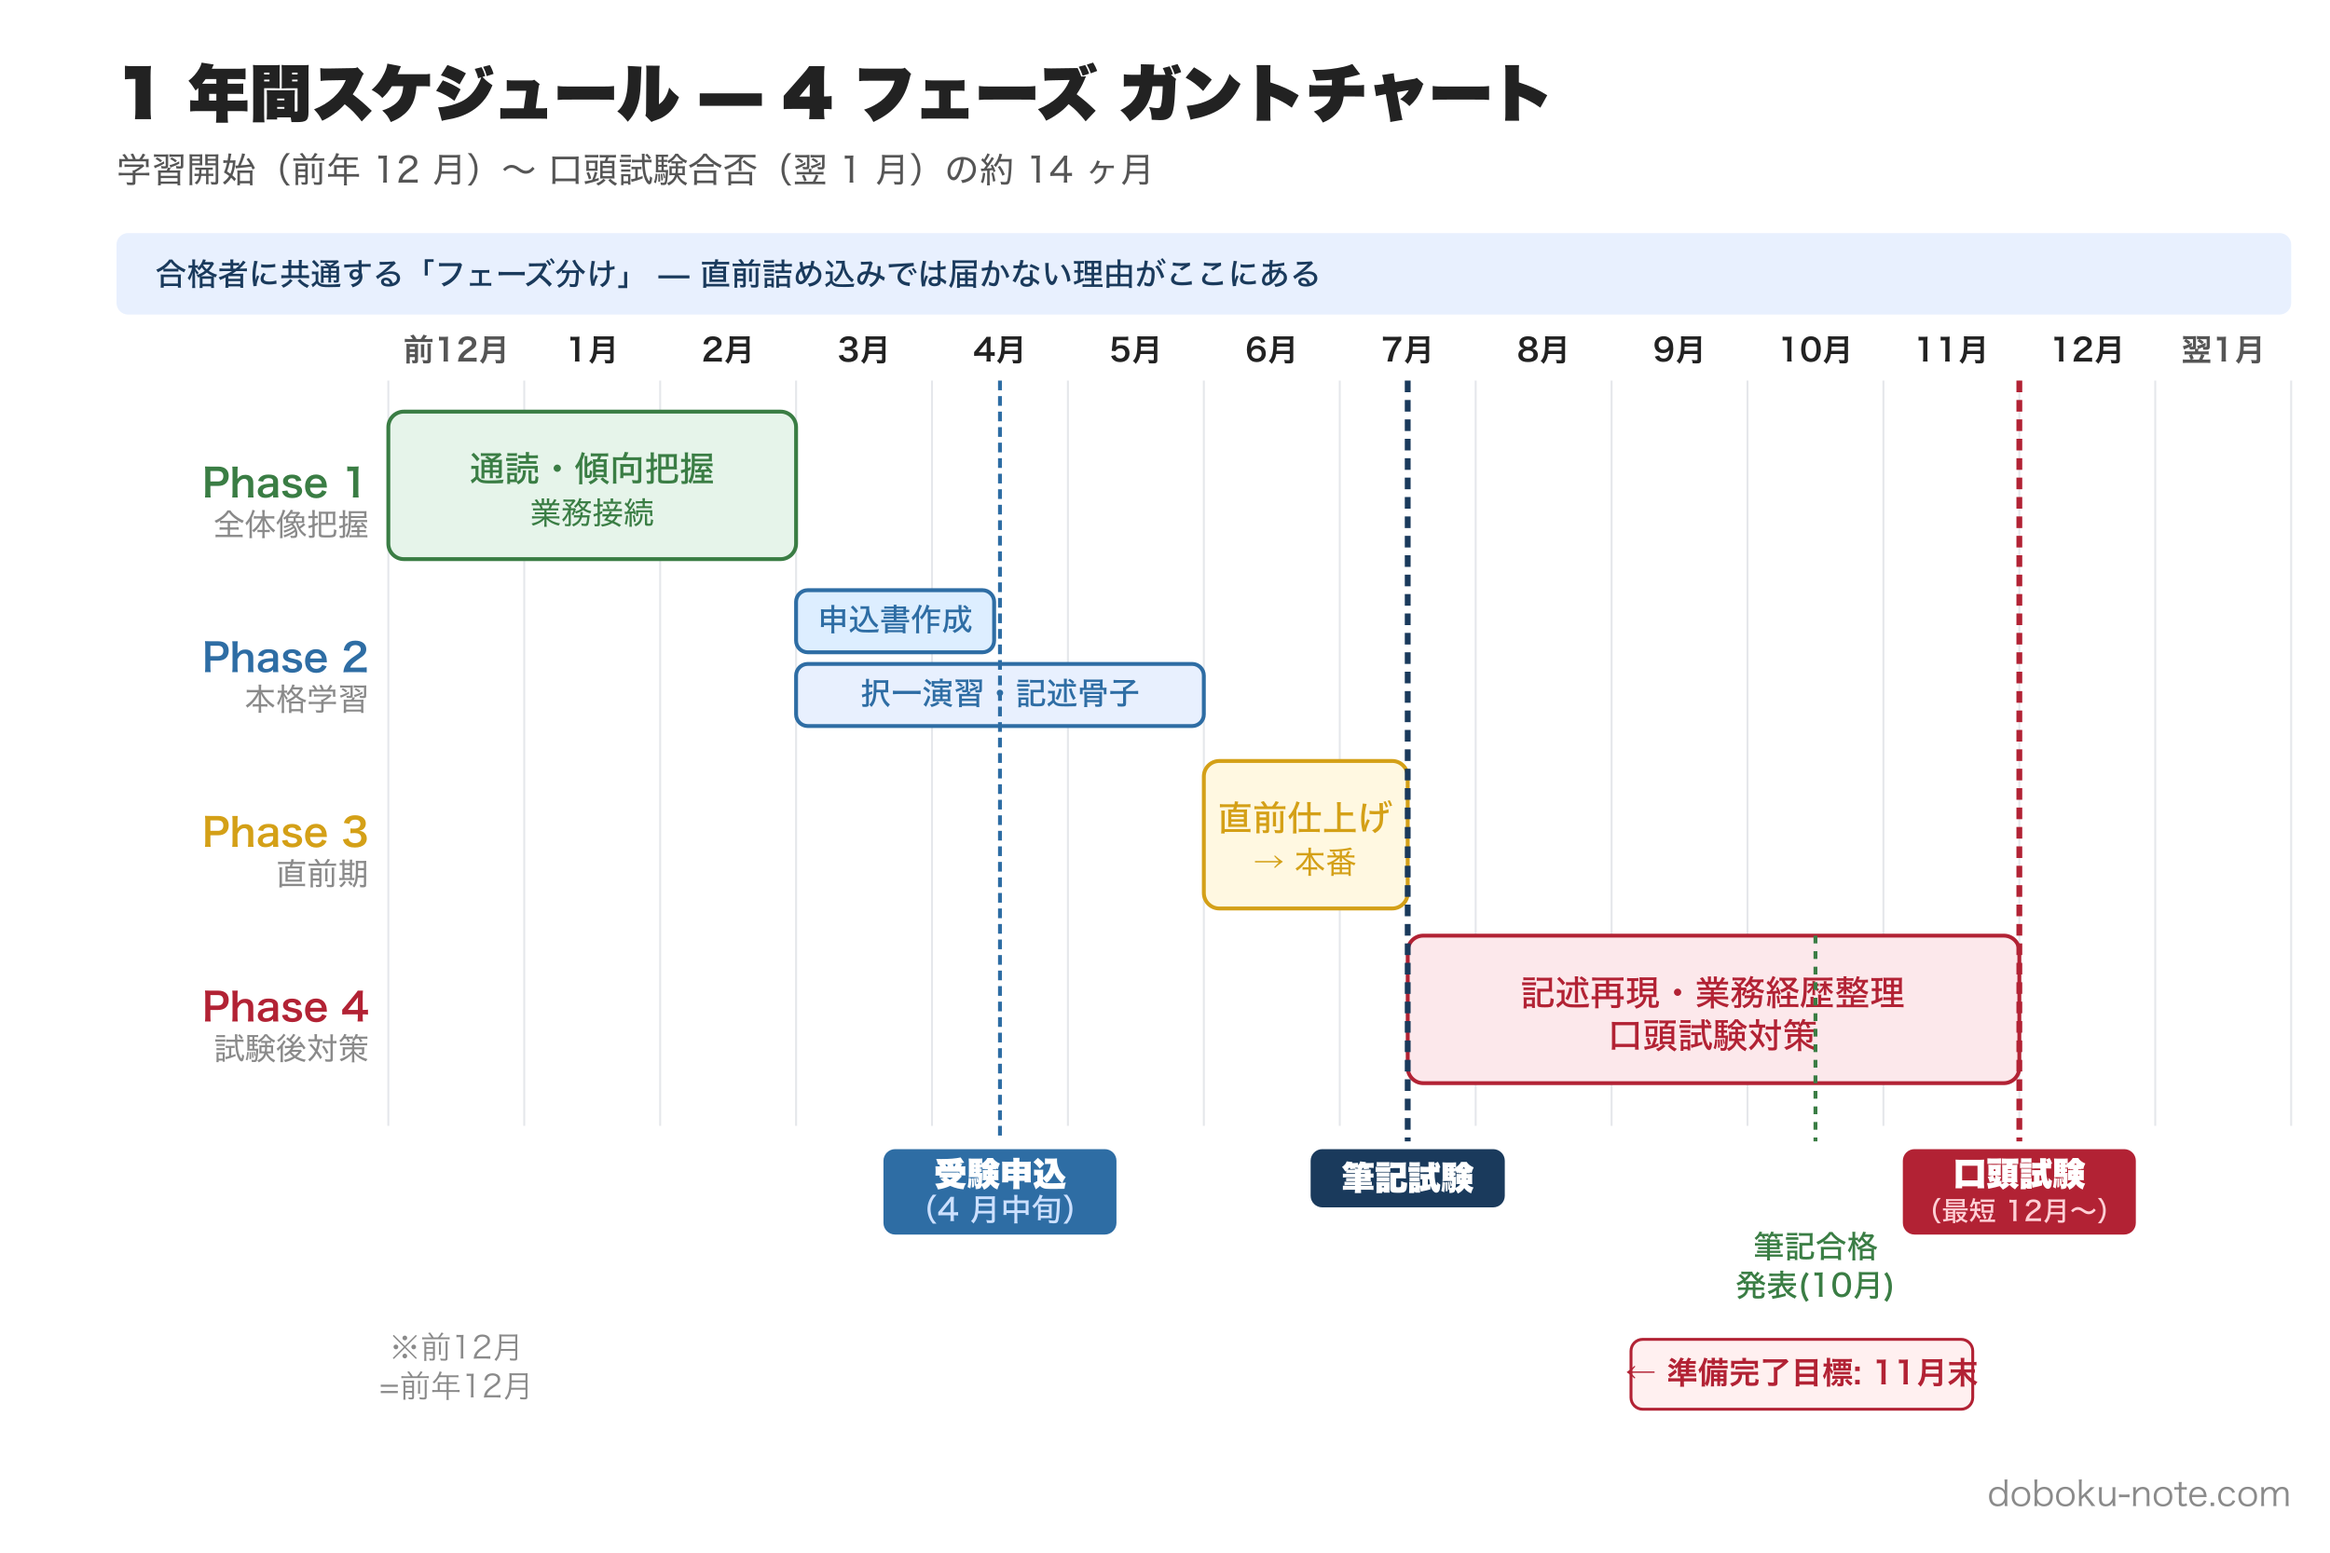
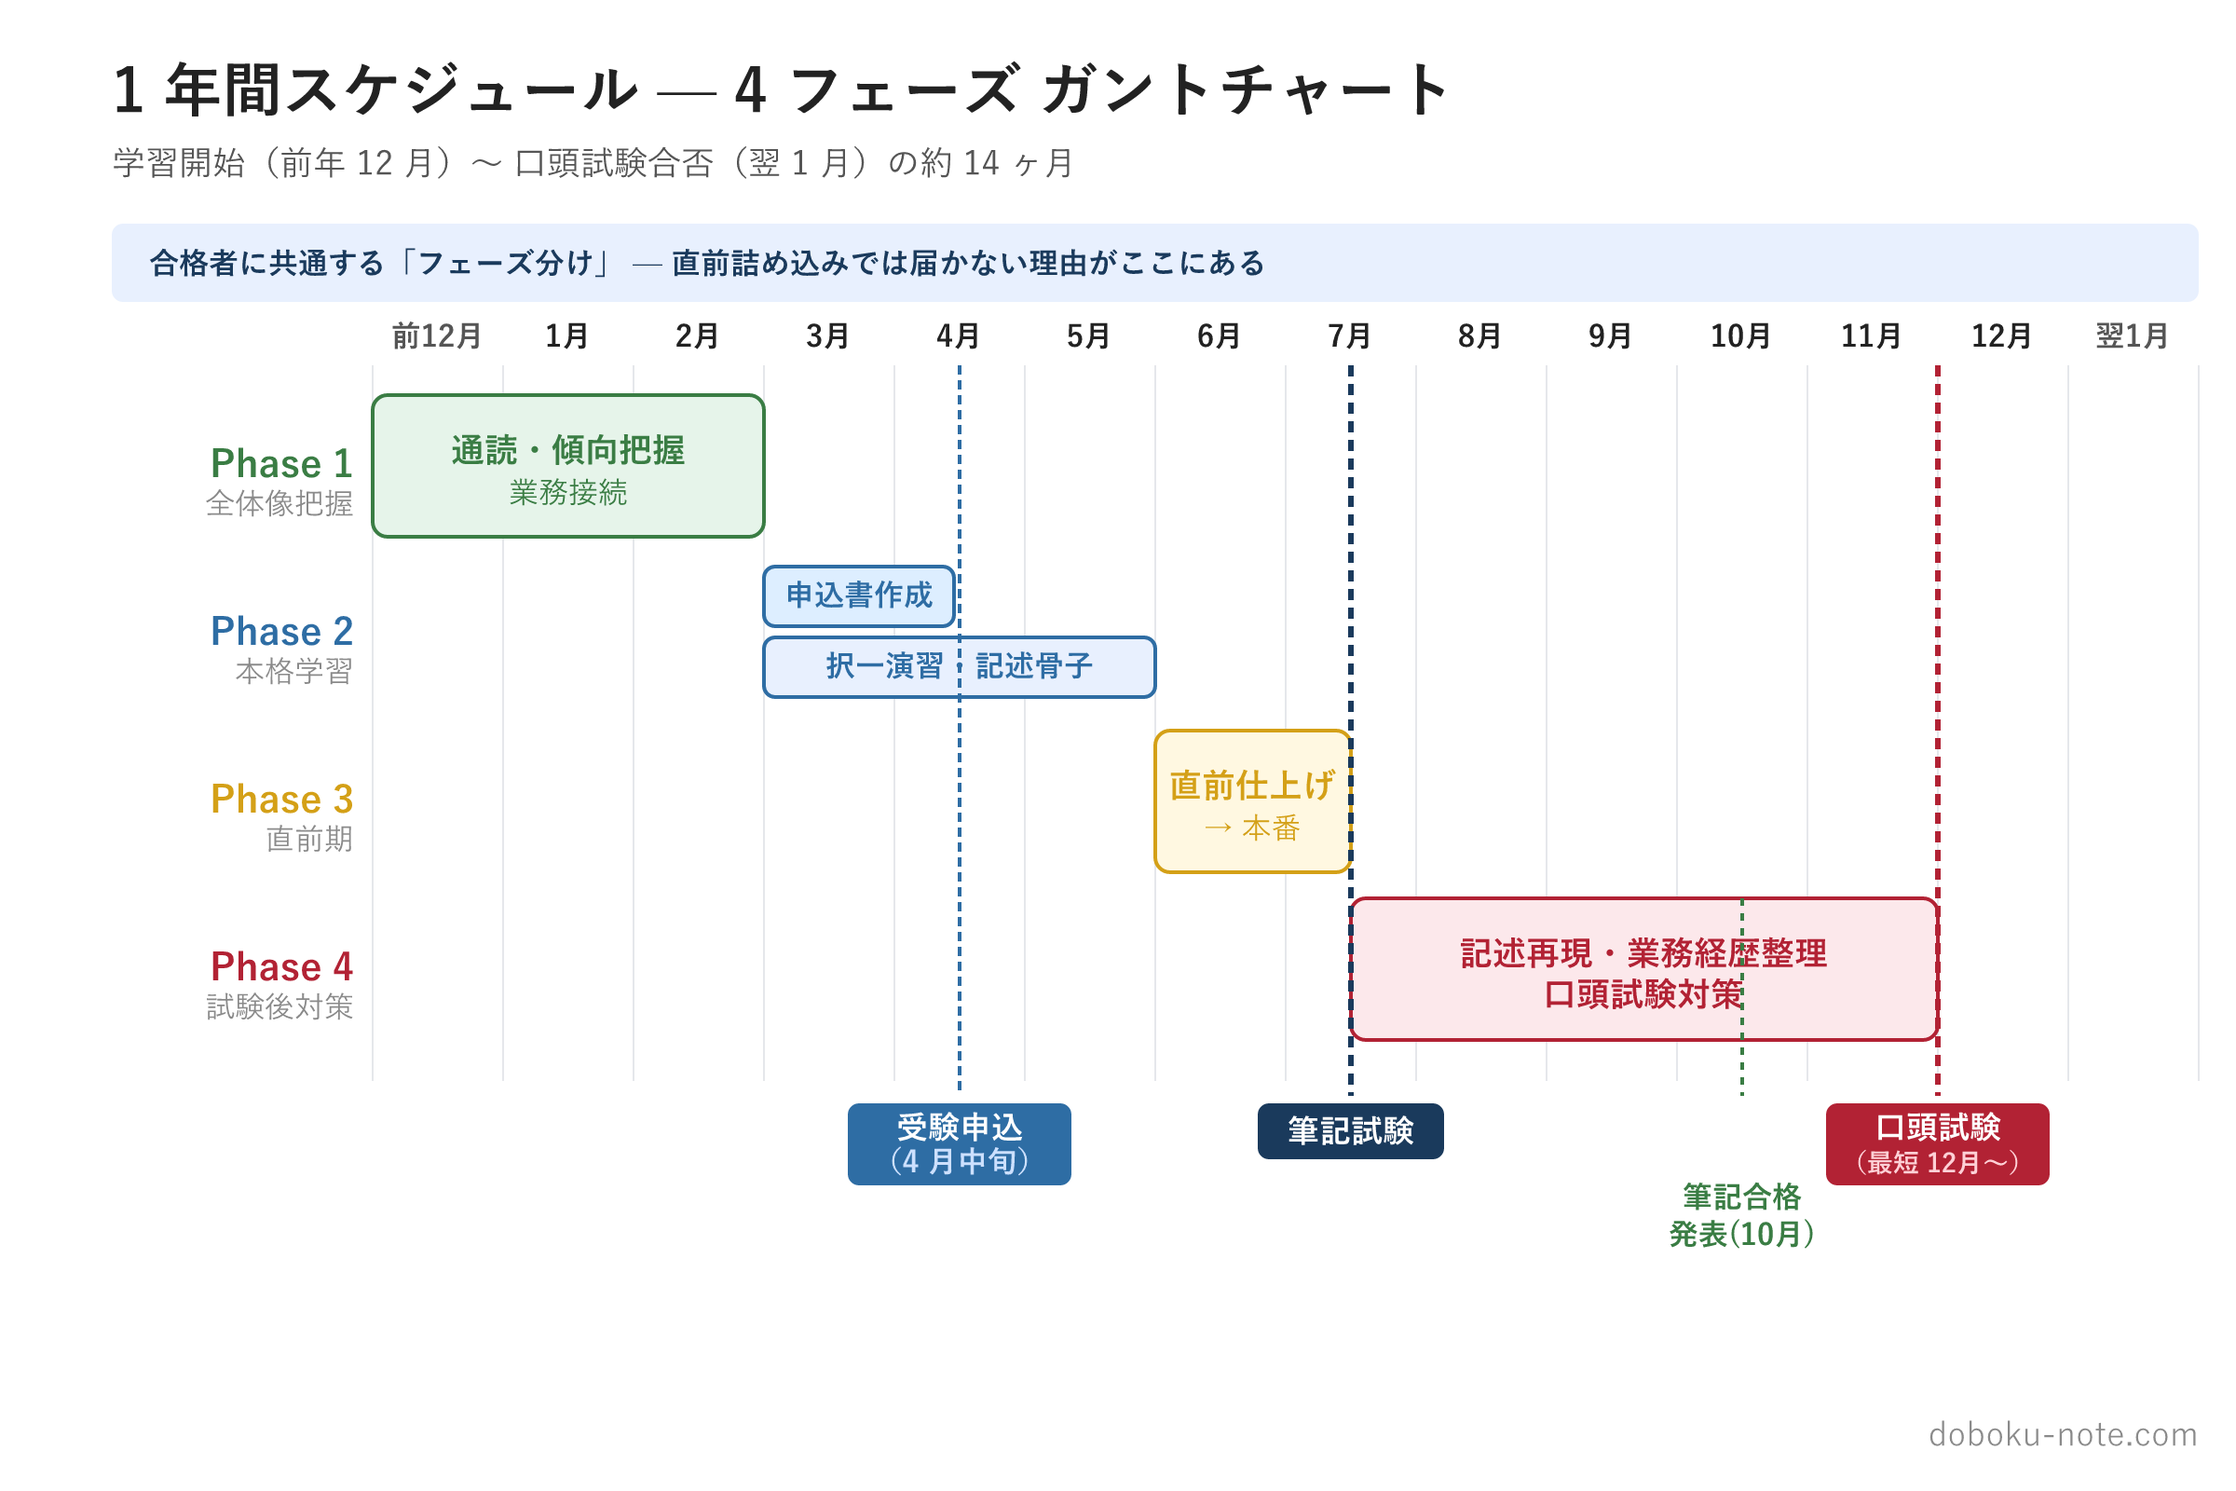
docs(note): 4 フェーズ学習法 公開後の調整 + hashtags 追加
- カバー画像のキャッチコピーと改行調整
- ガントチャート図の不要要素削除（前12月空・準備完了目標）
- 試験前 6-7 ヶ月起点の本文微調整
- hashtags.txt 新規（90 件）

diff --git a/docs/note/4フェーズ学習法/article.md b/docs/note/4フェーズ学習法/article.md
@@ -1,8 +1,13 @@
 ---
+notePublishedAt: 2026-05-13
+noteUrl: https://note.com/dobokunote/n/n6f9854578518
+noteId: n6f9854578518
 notePricing: free
 noteSeries: 学習戦略
 utmCampaign: 4-phase-learning-strategy
-noteUrl: ""
+coverTitle:
+  - 総監 二次試験
+  - 4 フェーズ学習法
 ---
 # 総監 二次試験 学習スケジュール完全版｜試験前 6-7 ヶ月を 4 フェーズに分けて合格ラインに届く設計
 
@@ -15,6 +20,10 @@ noteUrl: ""
 ---
 
 総合技術監理部門（総監）の合格率は一般部門より低く、出題範囲も「5 管理 + キーワード集 650 項目」と広範です。「直前に過去問を回せばなんとかなる」感覚で臨むと、6 月時点で記述式の骨子練習が間に合わず、択一式も伸び悩みます。
+
+それでも今から間に合わせたい方には、5 管理を試験頻出順に整理した精読ガイドがあります（マガジン）。択一・記述に直結する論点を 5 本にまとめており、フェーズ 2 の本格学習を加速できます。
+
+https://note.com/dobokunote/m/m607bf095b02a
 
 合格者に共通するのは「**試験日（7 月中旬）から逆算して**、半年以上前から学習設計を組み立てている」という点です。本記事では、試験前 3 フェーズ＋試験後 1 フェーズの**計 4 フェーズ**で学習スケジュールを提案します。
 
@@ -50,7 +59,7 @@ noteUrl: ""
 
 **3. 記述式の骨子練習は反復が前提**
 
-記述式は「論文を 3 回書けば書けるようになる」ものではありません。**過去問 5 年分 × 5 ペルソナ視点** で骨子を作る練習を、3-4 ヶ月かけて反復するのが標準です。
+記述式は「論文を 3 回書けば書けるようになる」ものではありません。**過去問 5 年分 × 予想問題** で骨子を作る練習を、3-4 ヶ月かけて反復するのが標準です。
 
 これらを総合すると、**学習を本格化させるのは前年 12 月〜2 月**、遅くとも **3 月開始** が現実的なラインです。
 
@@ -114,7 +123,9 @@ noteUrl: ""
 - **キーワード集 15%**: フェーズ 1 の通読で見つかった「弱い領域」を重点的に
 - **白書 5%**: 国土交通白書・建設白書の概要把握のみ
 
-配分の根拠は [総監記述式 出題傾向の変遷マップ](https://note.com/dobokunote/n/nc360aaa381b0) で詳述しています。
+配分の根拠は以下の記事で詳述しています（無料）。
+
+https://note.com/dobokunote/n/nc360aaa381b0
 
 ![過去問80% / キーワード集15% / 白書5% — フェーズ別配分](./img/figure-4-8015-5.png)
 
@@ -243,8 +254,15 @@ noteUrl: ""
 
 ## フェーズ別のおすすめ note 記事
 
-- **フェーズ 1-2（過去問の俯瞰）** → [総監記述式 出題傾向の変遷マップ](https://note.com/dobokunote/n/nc360aaa381b0)（無料）/ [総監択一式 17 年分 680 問を徹底分析](https://note.com/dobokunote/n/n3bcb87efddad)（無料）
-- **フェーズ 2（5 管理の深掘り）** → 5 管理 テキスト精読ガイド（5 本セット ¥1,980・21%OFF）
+**フェーズ 1（全体像把握）** — 択一式の出題範囲を 17 年分の傾向で俯瞰します。フェーズ 1 の通読と並行して読むと、何を重点的に押さえるべきかが見えてきます（無料）。
+
+https://note.com/dobokunote/n/n3bcb87efddad
+
+**フェーズ 1（受験判断）** — 一般部門との出題形式・難易度の違いを整理した記事です。総監受験を迷っている段階や、一般部門経験者がギャップを把握したいときに（無料）。
+
+https://note.com/dobokunote/n/n7fb7f92f7841
+
+**フェーズ 2（5 管理の深掘り）** — 択一・記述に直結する 5 管理の精読ガイド（マガジン）は記事末尾で案内します。
 
 ---
 
